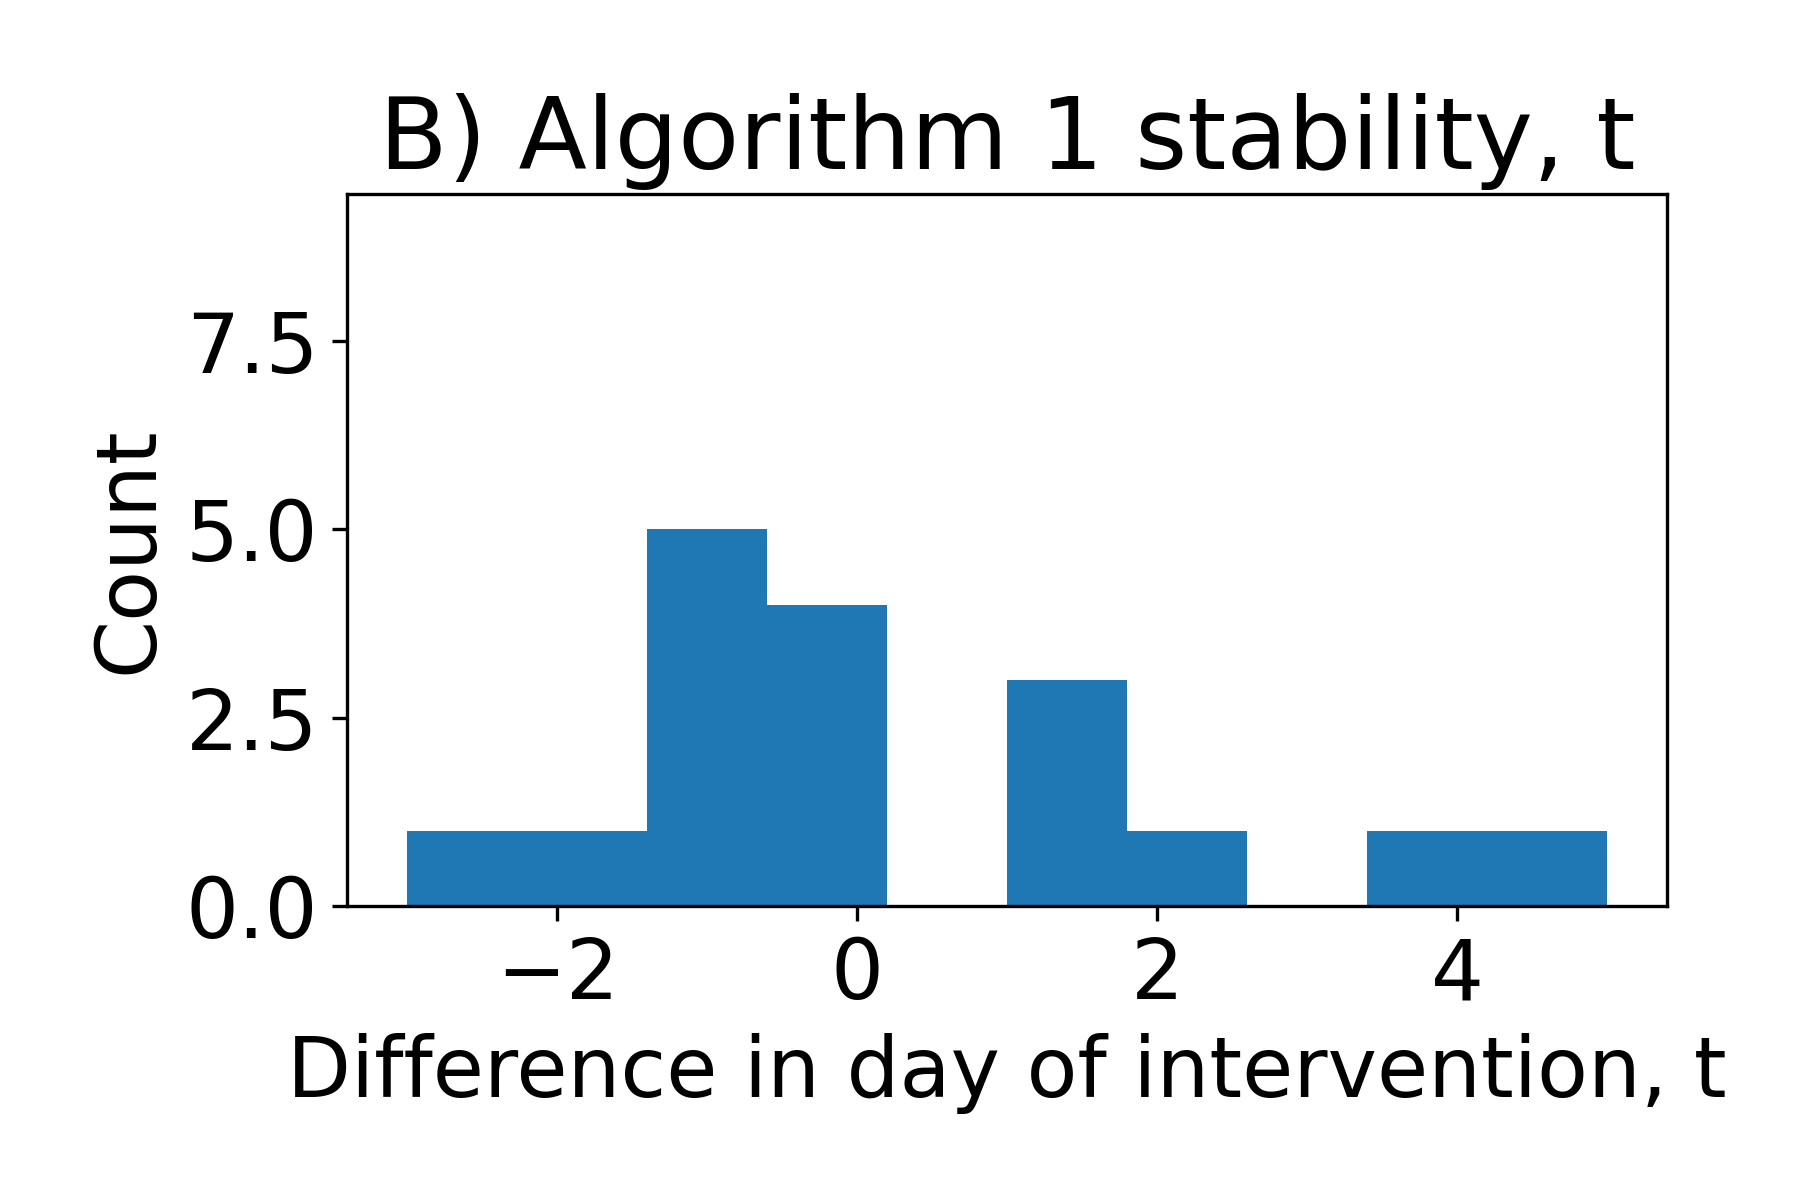
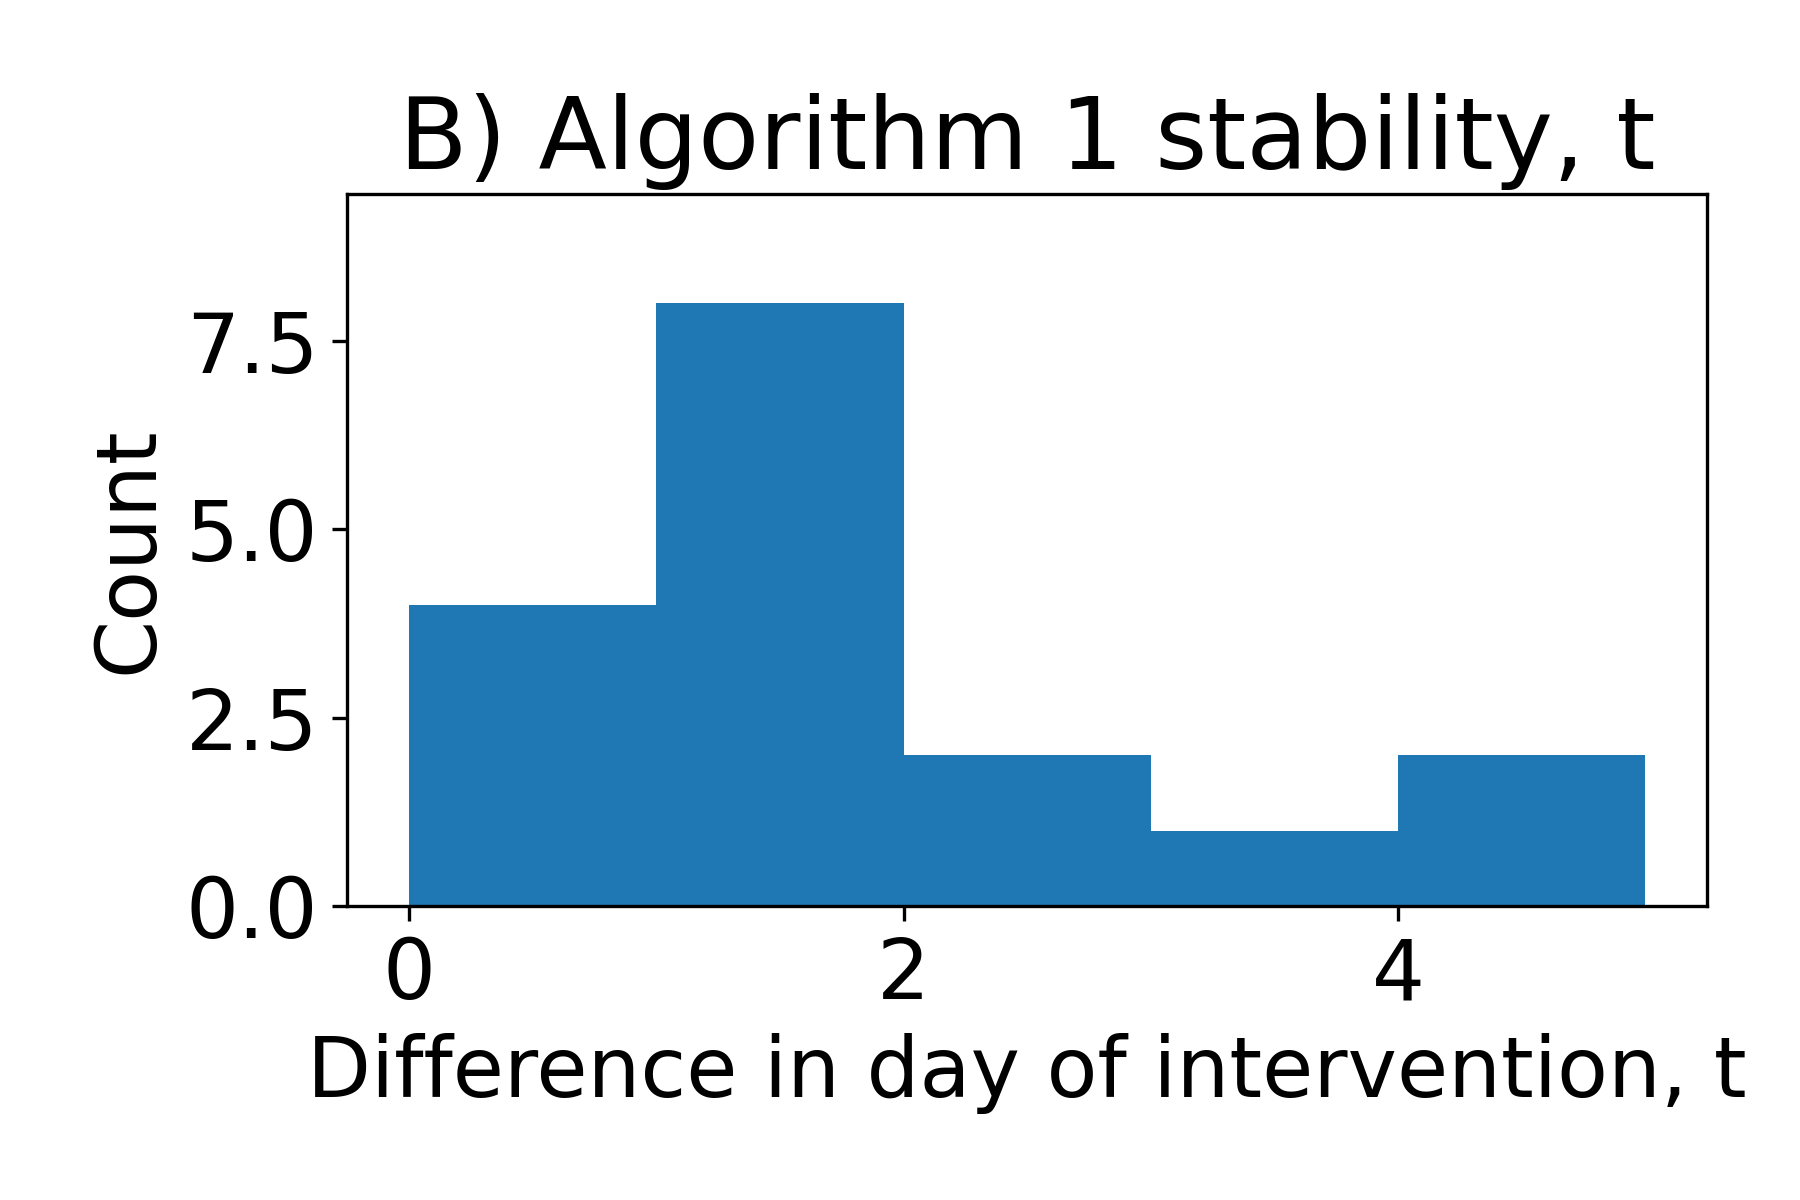
checks for beta estimation

diff --git a/code/test_stability/ttest_typeI.py b/code/test_stability/ttest_typeI.py
@@ -1,12 +1,9 @@
 #!/usr/bin/env python3
 # -*- coding: utf-8 -*-
 """
-Created on Thu Jun  3 01:30:51 2021
+Created on Thu Jun 10 11:41:42 2021
 
-@author: Justin Sheen
-
-@description: script used to measure bias of the t-test results
-
+@author: jsheen
 """
 
 # Import libraries and set seeds ----------------------------------------------
@@ -14,7 +11,6 @@ import numpy as np
 import random
 from scipy.stats import ttest_ind as ttest_ind
 import pandas as pd
-import pickle
 from pathlib import Path
 home = str(Path.home())
 random.seed(1)
@@ -51,11 +47,9 @@ for i in rts:
                     for n in nsamples:
                         param_sets.append([i, j, k, l , m, n])
 print(param_sets)
-def get_effect(It_It1con_It1trt, cluster_num, nsample):
+def get_error(It_It1con_It1trt, cluster_num, nsample):
     ncluster = cluster_num
-    effects = []
-    cohens = []
-    diffs = []
+    p_vals = []
     for sim_i in range(nsim):
         chosen = random.sample(list(range(len(It_It1con_It1trt))), ncluster * 2)
         ItIt1_con = []
@@ -71,7 +65,7 @@ def get_effect(It_It1con_It1trt, cluster_num, nsample):
             sampled_t_con = gen.multivariate_hypergeometric([St, Et, It, Rt], nsample=nsample, size=1)[0]
             sampled_It_con = sampled_t_con[2]
             sampled_It1_con = gen.multivariate_hypergeometric([St1, Et1, It1, Rt1], nsample=nsample, size=1)[0][2]
-            log_It1It_con = np.log((sampled_It1_con + 0.25) / (sampled_It_con + 0.25))
+            log_It1It_con = np.log((sampled_It1_con + 1) / (sampled_It_con + 1))
             ItIt1_con.append(log_It1It_con)
         ItIt1_trt = []
         for trt_dex in range(ncluster, ncluster * 2):
@@ -79,23 +73,19 @@ def get_effect(It_It1con_It1trt, cluster_num, nsample):
             Et = int(It_It1con_It1trt.iloc[chosen[trt_dex], 1])
             It = int(It_It1con_It1trt.iloc[chosen[trt_dex], 2])
             Rt = int(It_It1con_It1trt.iloc[chosen[trt_dex], 3])
-            St1 = int(It_It1con_It1trt.iloc[chosen[trt_dex], 16])
-            Et1 = int(It_It1con_It1trt.iloc[chosen[trt_dex], 17])
-            It1 = int(It_It1con_It1trt.iloc[chosen[trt_dex], 18])
-            Rt1 = int(It_It1con_It1trt.iloc[chosen[trt_dex], 19])
+            St1 = int(It_It1con_It1trt.iloc[chosen[trt_dex], 4])
+            Et1 = int(It_It1con_It1trt.iloc[chosen[trt_dex], 5])
+            It1 = int(It_It1con_It1trt.iloc[chosen[trt_dex], 6])
+            Rt1 = int(It_It1con_It1trt.iloc[chosen[trt_dex], 7])
             sampled_t_trt = gen.multivariate_hypergeometric([St, Et, It, Rt], nsample=nsample, size=1)[0]
             sampled_It_trt = sampled_t_trt[2]
             sampled_It1_trt = gen.multivariate_hypergeometric([St1, Et1, It1, Rt1], nsample=nsample, size=1)[0][2]
-            log_It1It_trt = np.log((sampled_It1_trt + 0.25) / (sampled_It_trt + 0.25))
+            log_It1It_trt = np.log((sampled_It1_trt + 1) / (sampled_It_trt + 1))
             ItIt1_trt.append(log_It1It_trt)
-        t_stat = ttest_ind(ItIt1_con, ItIt1_trt, alternative='greater', equal_var=False)[1]
-        effect = np.sqrt((t_stat)**2 / (t_stat**2 + (ncluster - 1)))
-        cohen = (np.mean(ItIt1_con) - np.mean(ItIt1_trt)) / np.sqrt((np.std(ItIt1_con)**2 + np.std(ItIt1_trt)**2) / 2)
-        diff = (np.mean(ItIt1_con) - np.mean(ItIt1_trt))
-        effects.append(effect)
-        cohens.append(cohen)
-        diffs.append(diff)
-    return [effects, cohens, diffs]
+        p_val = ttest_ind(ItIt1_con, ItIt1_trt, alternative='greater', equal_var=False)[1]
+        p_vals.append(p_val)
+    power = len(np.where(np.array(p_vals) <= 0.05)[0]) / len(p_vals)
+    return power
 for param_set in param_sets:
     print(param_set)
     tgt_R0 = param_set[0]
@@ -109,13 +99,13 @@ for param_set in param_sets:
     ncluster_res = pd.read_csv(home + "/NPI/code_output/res/res_" + str(tgt_R0) + "_" + str(N_cluster) + "_" + str(k_overdispersion) + "_" + str(effect) + "_" + str(expected_It_N) + "_" + str(curr_nsample) + "_ttest_rerun.csv", header=None)
     ncluster = ncluster_res[0][0]
     if ncluster != -1 and ncluster != 1000:
-        to_save = get_effect(It_It1con_It1trt, ncluster, curr_nsample)
-        with open(home + '/Desktop/temp/res_' + str(tgt_R0) + "_" + str(N_cluster) + "_" + str(k_overdispersion) + "_" + str(effect) + "_" + str(expected_It_N) + "_" + str(curr_nsample) + '_ttest_effect_0.25.pickle', 'wb') as handle:
-            pickle.dump(to_save, handle, protocol=pickle.HIGHEST_PROTOCOL)
+        to_save = get_error(It_It1con_It1trt, ncluster, curr_nsample)
+        with open(home + '/Desktop/typeI/res_' + str(tgt_R0) + "_" + str(N_cluster) + "_" + str(k_overdispersion) + "_" + str(effect) + "_" + str(expected_It_N) + "_" + str(curr_nsample) + '_ttest_typeI.csv', 'w') as out_f:
+            out_f.write(str(to_save))
     else:
-        to_save = [-1]
-        with open(home + '/Desktop/temp/res_' + str(tgt_R0) + "_" + str(N_cluster) + "_" + str(k_overdispersion) + "_" + str(effect) + "_" + str(expected_It_N) + "_" + str(curr_nsample) + '_ttest_effect_0.25.pickle', 'wb') as handle:
-            pickle.dump(to_save, handle, protocol=pickle.HIGHEST_PROTOCOL)
+        to_save = -1
+        with open(home + '/Desktop/typeI/res_' + str(tgt_R0) + "_" + str(N_cluster) + "_" + str(k_overdispersion) + "_" + str(effect) + "_" + str(expected_It_N) + "_" + str(curr_nsample) + '_ttest_typeI.csv', 'w') as out_f:
+            out_f.write(str(to_save))
 '''
 # Create csv of results -------------------------------------------------------
 rts = [1.5, 2]
@@ -155,30 +145,17 @@ for param_set in param_sets:
     effect = param_set[3]
     expected_It_N = param_set[4]
     curr_nsample = param_set[5]
-    param_res = pd.read_pickle(home + '/Desktop/temp/res_' + str(tgt_R0) + "_" + str(N_cluster) + "_" + str(k_overdispersion) + "_" + str(effect) + "_" + str(expected_It_N) + "_" + str(curr_nsample) + '_ttest_effect.pickle')
-    param_res_05 = pd.read_pickle(home + '/Desktop/temp/res_' + str(tgt_R0) + "_" + str(N_cluster) + "_" + str(k_overdispersion) + "_" + str(effect) + "_" + str(expected_It_N) + "_" + str(curr_nsample) + '_ttest_effect_0.5.pickle')
-    param_res_025 = pd.read_pickle(home + '/Desktop/temp/res_' + str(tgt_R0) + "_" + str(N_cluster) + "_" + str(k_overdispersion) + "_" + str(effect) + "_" + str(expected_It_N) + "_" + str(curr_nsample) + '_ttest_effect_0.25.pickle')
+    param_res = pd.read_csv(home + '/Desktop/typeI/res_' + str(tgt_R0) + "_" + str(N_cluster) + "_" + str(k_overdispersion) + "_" + str(effect) + "_" + str(expected_It_N) + "_" + str(curr_nsample) + '_ttest_typeI.csv')
     new_row = []
     new_row.append(tgt_R0)
     new_row.append(N_cluster)
     new_row.append(k_overdispersion)
     new_row.append(effect)
     new_row.append(curr_nsample)
-    if (len(param_res) > 1):
-        new_row.append(np.mean(param_res[2]))
-    else:
-        new_row.append('-')
-    if (len(param_res_05) > 1):
-        new_row.append(np.mean(param_res_05[2]))
-    else:
-        new_row.append('-')
-    if (len(param_res_025) > 1):
-        new_row.append(np.mean(param_res_025[2]))
-    else:
-        new_row.append('-')
+    new_row.append(param_res.columns[0])
     to_pd.append(new_row)
-df = pd.DataFrame(to_pd, columns = ['R0', 'N', 'k', 'true effect', 'n sample', 'diff. of means +1', 'diff. of means +0.5', 'diff. of means +0.25']) 
-df.to_csv(home + '/Desktop/temp/effect.csv', index=False)
+df = pd.DataFrame(to_pd, columns = ['R0', 'N', 'k', 'true effect', 'n sample', 'error']) 
+df.to_csv(home + '/Desktop/typeI/error.csv', index=False)
 
 
 

diff --git a/code/test_stability/sanity_checks_k.py b/code/test_stability/sanity_checks_k.py
@@ -92,7 +92,15 @@ df = pd.DataFrame(to_pd, columns=['R0', 'N', 'k', 'true_beta', 'beta_est', 'beta
                                   'diff beta_est', 'diff beta_est with 0s', 
                                   'St', 'It', 'It1', 'R00', 'missing'])
 df.to_csv(home + '/Desktop/beta_sanity.csv', index=False)
-plt.scatter(df['true_beta'], df['beta_est'])        
+plt.scatter(df['true_beta'].loc[np.where((df['k'] == 0.1) & (df['N'] == 100))], df['beta_est'].loc[np.where((df['k'] == 0.1) & (df['N'] == 100))], c='blue', marker='^')       
+plt.scatter(df['true_beta'].loc[np.where((df['k'] == 0.4) & (df['N'] == 100))], df['beta_est'].loc[np.where((df['k'] == 0.4) & (df['N'] == 100))], c='orange', marker='^')       
+plt.scatter(df['true_beta'].loc[np.where((df['k'] == 0.7) & (df['N'] == 100))], df['beta_est'].loc[np.where((df['k'] == 0.7) & (df['N'] == 100))], c='red', marker='^')       
+plt.scatter(df['true_beta'].loc[np.where((df['k'] == 0.1) & (df['N'] == 1000))], df['beta_est'].loc[np.where((df['k'] == 0.1) & (df['N'] == 1000))], c='blue', marker='s')       
+plt.scatter(df['true_beta'].loc[np.where((df['k'] == 0.4) & (df['N'] == 1000))], df['beta_est'].loc[np.where((df['k'] == 0.4) & (df['N'] == 1000))], c='orange', marker='s')       
+plt.scatter(df['true_beta'].loc[np.where((df['k'] == 0.7) & (df['N'] == 1000))], df['beta_est'].loc[np.where((df['k'] == 0.7) & (df['N'] == 1000))], c='red', marker='s')
+plt.scatter(df['true_beta'].loc[np.where((df['k'] == 0.1) & (df['N'] == 10000))], df['beta_est'].loc[np.where((df['k'] == 0.1) & (df['N'] == 10000))], c='blue')       
+plt.scatter(df['true_beta'].loc[np.where((df['k'] == 0.4) & (df['N'] == 10000))], df['beta_est'].loc[np.where((df['k'] == 0.4) & (df['N'] == 10000))], c='orange')       
+plt.scatter(df['true_beta'].loc[np.where((df['k'] == 0.7) & (df['N'] == 10000))], df['beta_est'].loc[np.where((df['k'] == 0.7) & (df['N'] == 10000))], c='red')        
 plt.xlabel('true beta')
 plt.ylabel('estimated beta')
 plt.xlim(0, 0.032)

diff --git a/code/test_stability/transmission_stability.py b/code/test_stability/transmission_stability.py
@@ -56,10 +56,13 @@ for param_set in param_sets:
     It_It1con_It1trt_lE = pd.read_csv(home + "/NPI/code_output/res/" + str(tgt_R0) + "_" + str(N_cluster) + "_" + str(k_overdispersion) + "_" + str(0.2) + "_" + str(expected_It_N) + ".csv", header=None)
     b_lE = It_It1con_It1trt_lE.iloc[3000, 2]
     t_lE = It_It1con_It1trt_lE.iloc[3000, 3]
+    print(b_hE)
+    print(b_lE)
+    print((b_hE - b_lE))
     diffs_beta.append((b_hE - b_lE))
     diffs_t.append((t_lE - t_hE))
 # Plot of distribution of diffs in beta ---------------------------------------
-plt.hist(diffs_beta, color='#1f77b4', bins=10)
+plt.hist(np.abs(diffs_beta), color='#1f77b4', bins=5)
 plt.xlabel('Difference in transmission rate, β')
 plt.ylabel('Count')
 plt.title('A) Algorithm 1 stability, β')
@@ -69,7 +72,7 @@ max(diffs_beta)
 min(diffs_beta)
 np.average(np.abs(diffs_beta))
 # Plot of distribution of diffs in t ------------------------------------------
-plt.hist(diffs_t, color='#1f77b4', bins=10)
+plt.hist(np.abs(diffs_t), color='#1f77b4', bins=5)
 plt.xlabel('Difference in day of intervention, t')
 plt.ylabel('Count')
 plt.title('B) Algorithm 1 stability, t')

diff --git a/code/generate_results/create_sim_bank.py b/code/generate_results/create_sim_bank.py
@@ -35,8 +35,8 @@ for i in rts:
             for l in effects:
                 for m in eits:
                 	if (k == 10000 and j == 0.1):
-                		param_sets.append([i, j, k, l , 0.0045])
-                	else:
+                        param_sets.append([i, j, k, l , 0.0045])
+                    else:
                         param_sets.append([i, j, k, l , m])
 clusters = [100]
 eits = [0.02]
